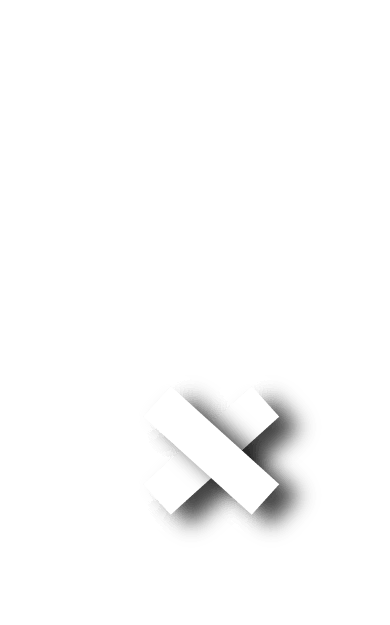
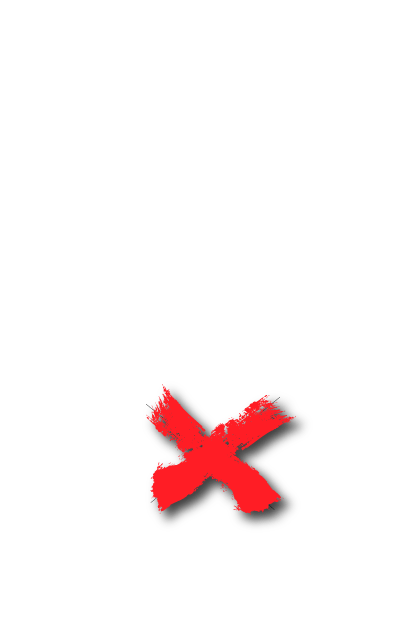
👌 IMPROVE: animation

Changed region(s): [[0.3692, 0.608, 0.8, 0.8512]]

diff --git a/src/components/Tilt.vue b/src/components/Tilt.vue
@@ -1,5 +1,7 @@
 <template>
   <div
+    @mouseenter="hover = true"
+    @mouseleave="hover = false"
     class="tilt"
     :style="{
       'background-image':
@@ -22,24 +24,24 @@ export default {
   data() {
     return {
       XIndex: 1,
-      faceIndex: 2
+      faceIndex: 2,
+      hover: false
     };
   },
   components: {},
   mounted() {
     VanillaTilt.init(document.querySelector(".tilt"), {
-      // reverse: true,
       max: 10,
       speed: 900,
       scale: 1.1
       // "full-page-listening": true
     });
     setInterval(() => {
-      if (this.XIndex < 4) this.XIndex++;
-      else this.XIndex = 1;
-      // if (this.faceIndex < 3) this.faceIndex++;
-      // else this.faceIndex = 1;
-    }, 2500);
+      if (!this.hover) {
+        this.XIndex = Math.ceil(Math.random() * 3);
+        // this.faceIndex = Math.ceil(Math.random() * 2);
+      }
+    }, 150);
   }
 };
 </script>
